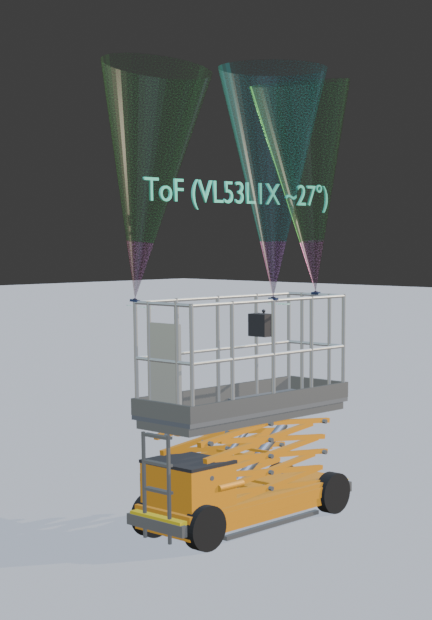
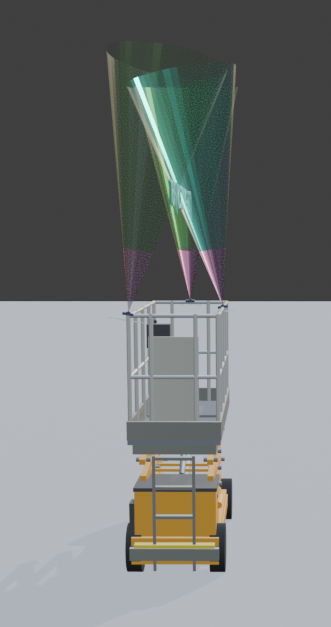
Update Blender gallery screenshots in the README.
Replace overview, plan coverage, and US/ToF comparison images without changing the circuit diagram.

Changed region(s): [[0.0, 0.0919, 1.0, 0.9194]]

diff --git a/README.md b/README.md
@@ -119,13 +119,13 @@ ESP32-S3 + TCA9548A + 3× VL53L1X + LEDs/buzzer/relé — ver SafeAlert MVP.
 
 ## Galeria
 
-### Vista geral — sistema ToF
+### Vista geral — cones de leitura
 
 ![Vista geral ToF](images/tof_vista_geral.png)
 
-### Detalhe do cesto e cones de leitura
+### Cobertura do cesto em planta (overlap dos FoVs)
 
-![Detalhe cesto ToF](images/tof_detalhe_cesto.png)
+![Detalhe cobertura do cesto](images/tof_detalhe_cesto.png)
 
 ### Comparativo na mesma cena (Ultrassônico × ToF)
 